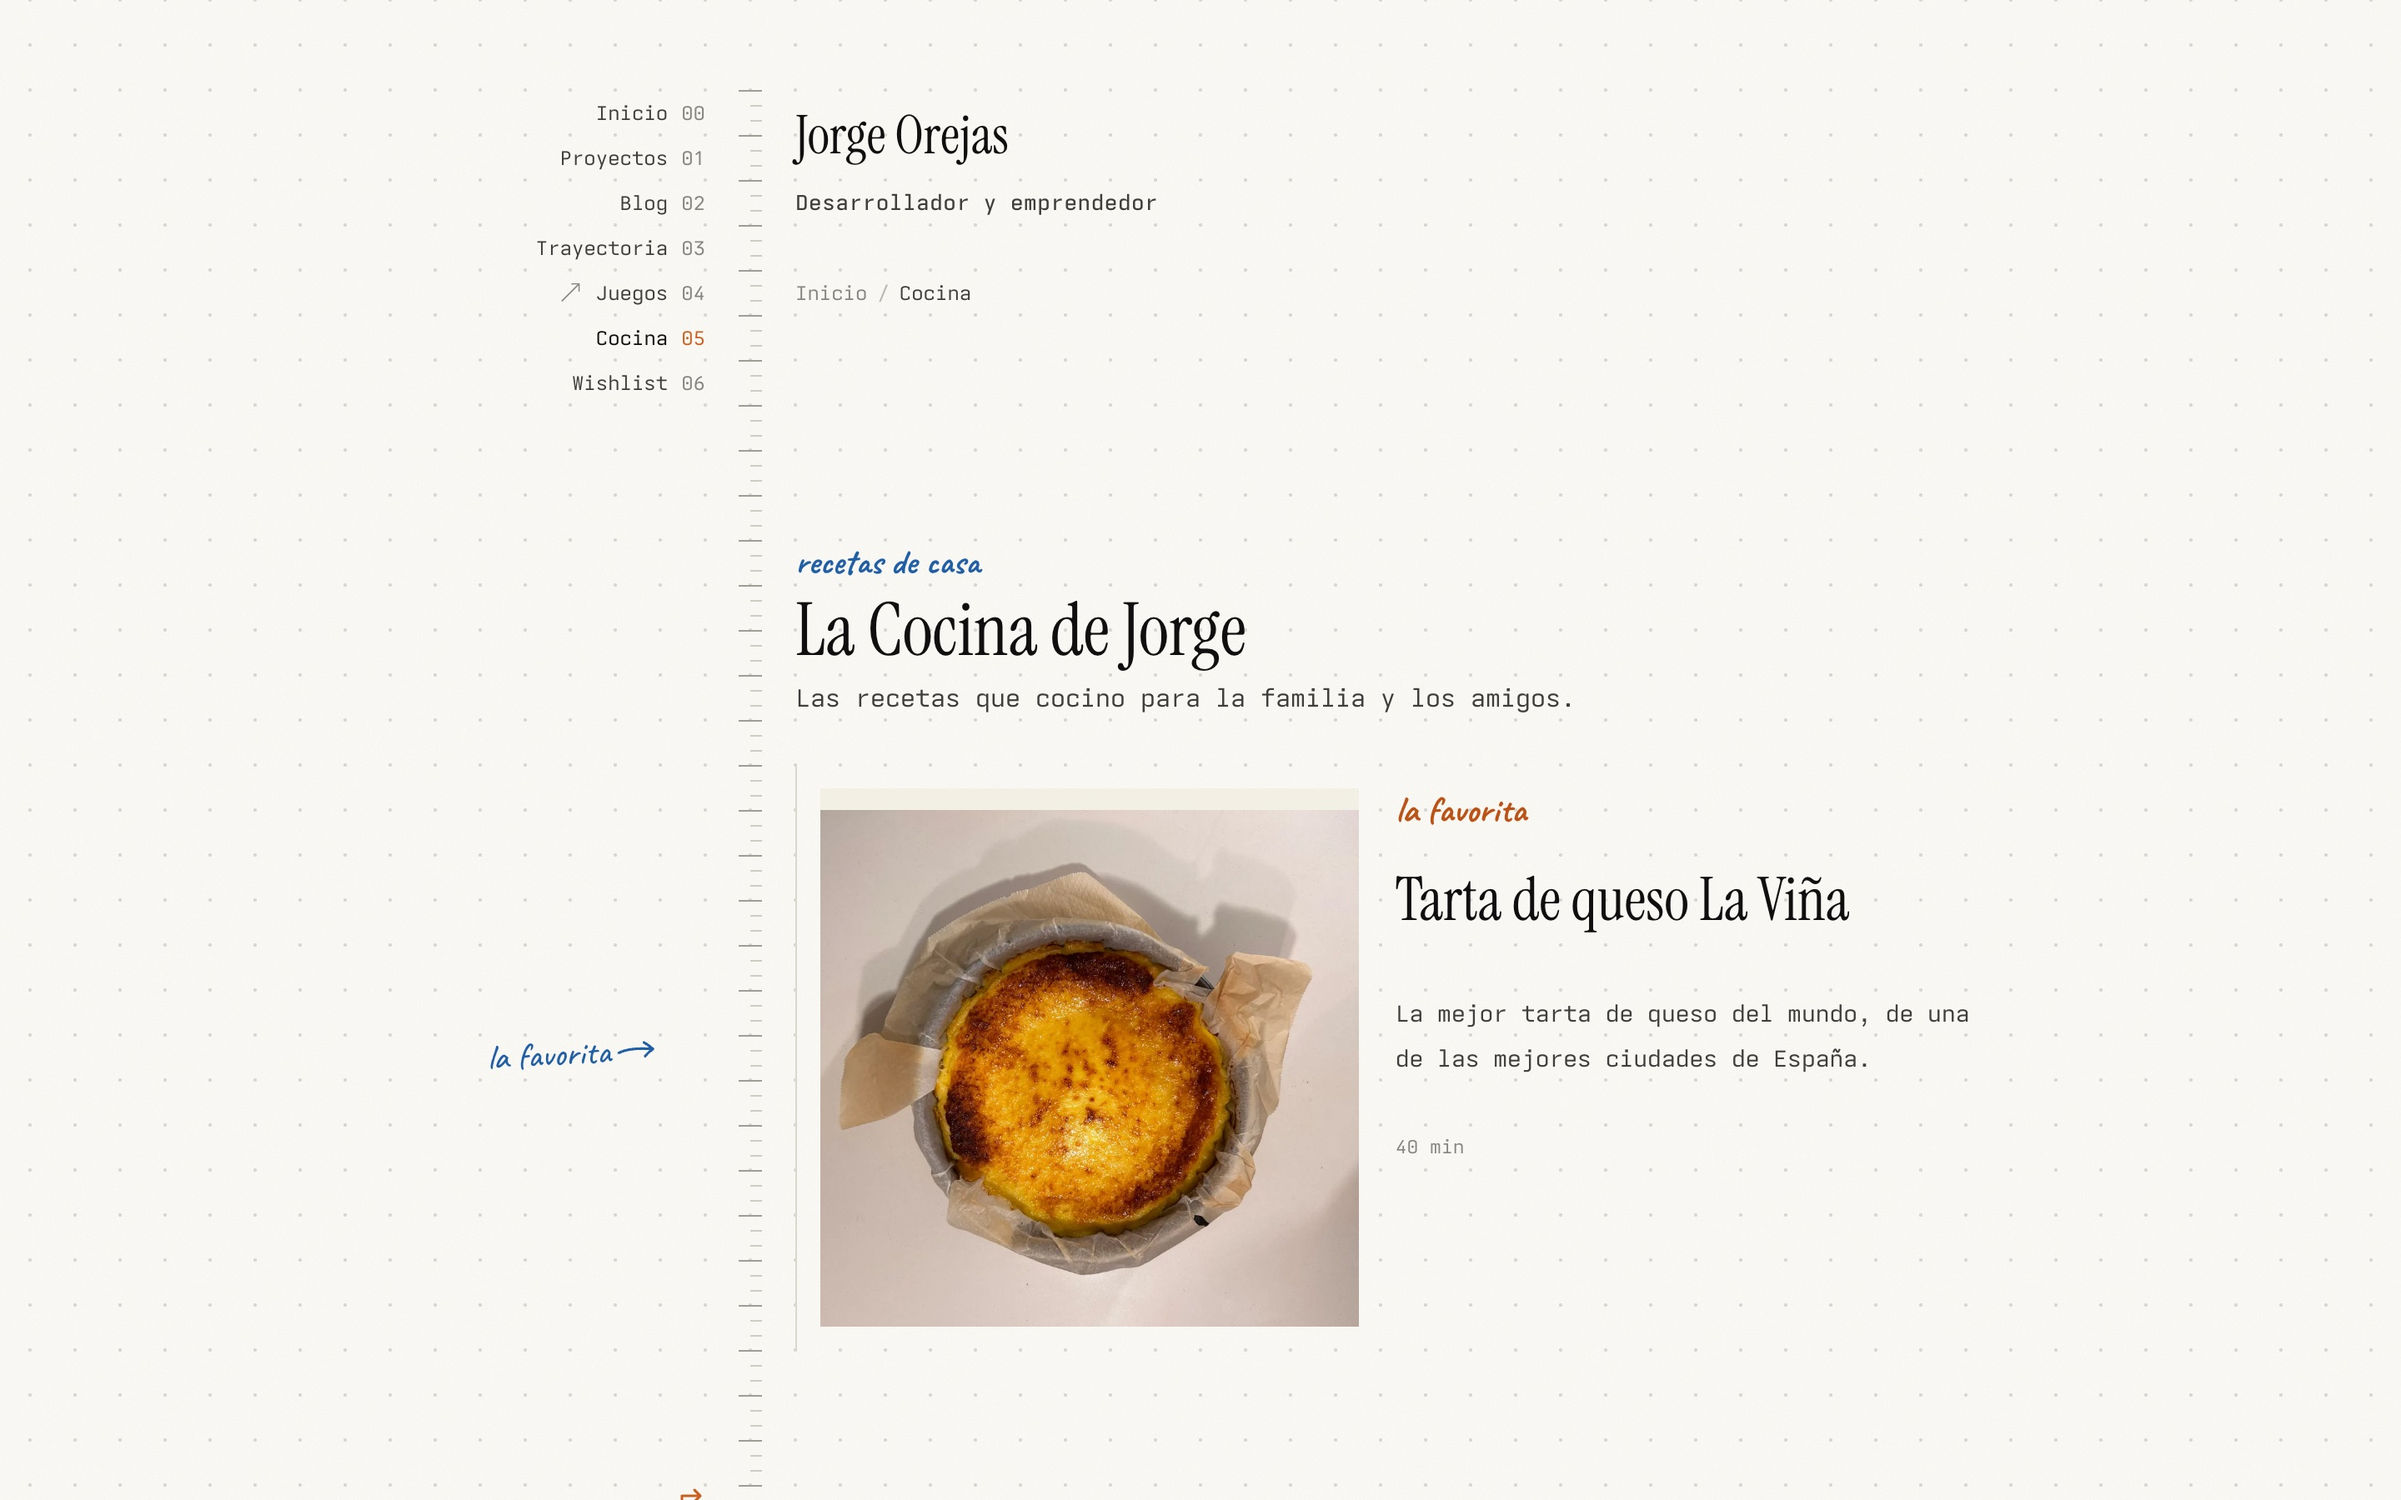
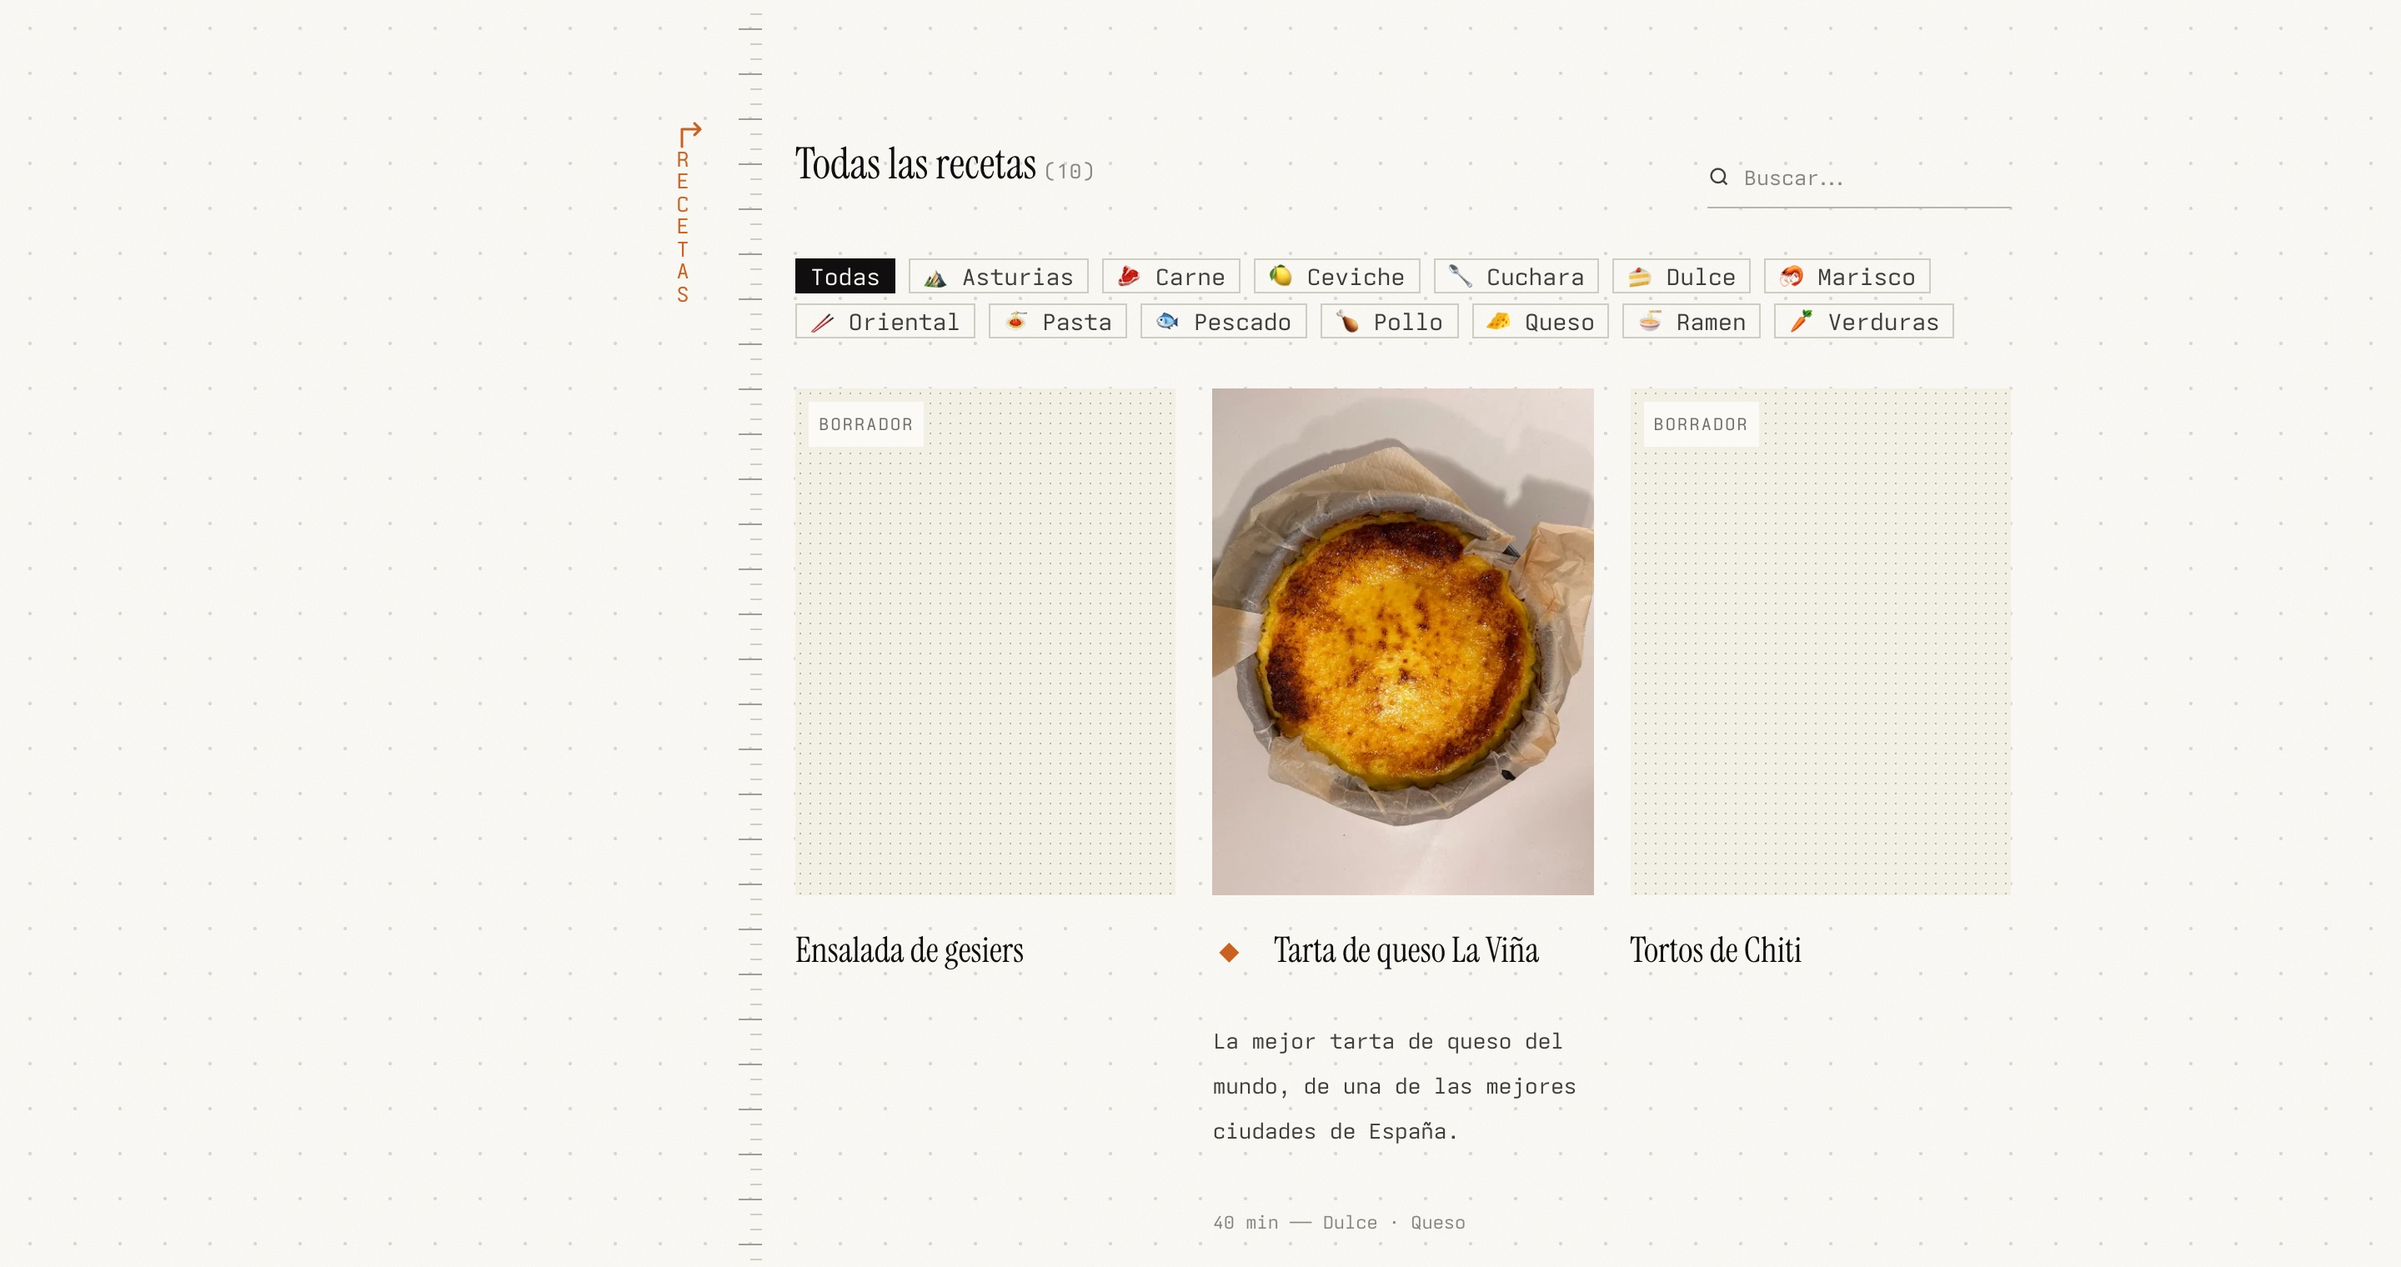
perf: recipe cards use the page cover only; the index reads no blocks
Every published recipe but one has a Notion cover, so the card photo is
the cover and nothing else: the /cocina index no longer reads any recipe's
blocks (not even the tree), and a recipe without a cover shows the dotted
placeholder until it gets one. The recipe page itself still falls back to
its first photo as the hero.

Claude-Session: https://claude.ai/code/session_01G45mYe728vW4cAiY8iUQnr

diff --git a/src/lib/notion/collections.ts b/src/lib/notion/collections.ts
@@ -382,8 +382,10 @@ export async function recipes() {
             ? difficulty
             : undefined,
         tags: p.relation("Etiquetas").flatMap((id) => tagById.get(id) ?? []),
-        // No cover: the first photo in the page (cached per edit) is the card image
-        image: pageImage(page, 1280) ?? (await recipeHeroImage(page)),
+        // The card photo is the page cover (set it in Notion). The index never
+        // reads a recipe's blocks: without a cover the card shows the dotted
+        // placeholder, and only the recipe page falls back to its first photo
+        image: pageImage(page, 1280),
         editedAt: new Date(page.last_edited_time),
       };
       return { id: slugOf(page), page, data };
@@ -392,25 +394,10 @@ export async function recipes() {
   return entries.sort((a, b) => b.data.date.valueOf() - a.data.date.valueOf());
 }
 
-/** A recipe's blocks, fetched once per edit */
-function recipeTree(page: NotionPage) {
-  return cachedBody(`recipe-tree:${page.id}:${page.last_edited_time}`, () => getBlockTree(page.id));
-}
-
-/**
- * The card photo of a recipe without a cover: its first image. Only reads the
- * blocks, so the /cocina index doesn't render every recipe (and read the size
- * of every photo) just to find one picture.
- */
-async function recipeHeroImage(page: NotionPage): Promise<string | undefined> {
-  const hero = firstImageBlock(await recipeTree(page));
-  return hero ? blockImage(hero, 1920) : undefined;
-}
-
 /** A recipe page split into its parts, rendered to HTML */
 export async function recipeBody(page: NotionPage, hasCover: boolean): Promise<RecipeBody> {
   return cachedBody(`recipe:${page.id}:${page.last_edited_time}`, async () => {
-    const blocks = await recipeTree(page);
+    const blocks = await getBlockTree(page.id);
     // No cover: the first photo becomes the hero and isn't repeated below
     const hero = hasCover ? undefined : firstImageBlock(blocks);
     const withoutHero = hero ? removeBlock(blocks, hero.id) : blocks;
